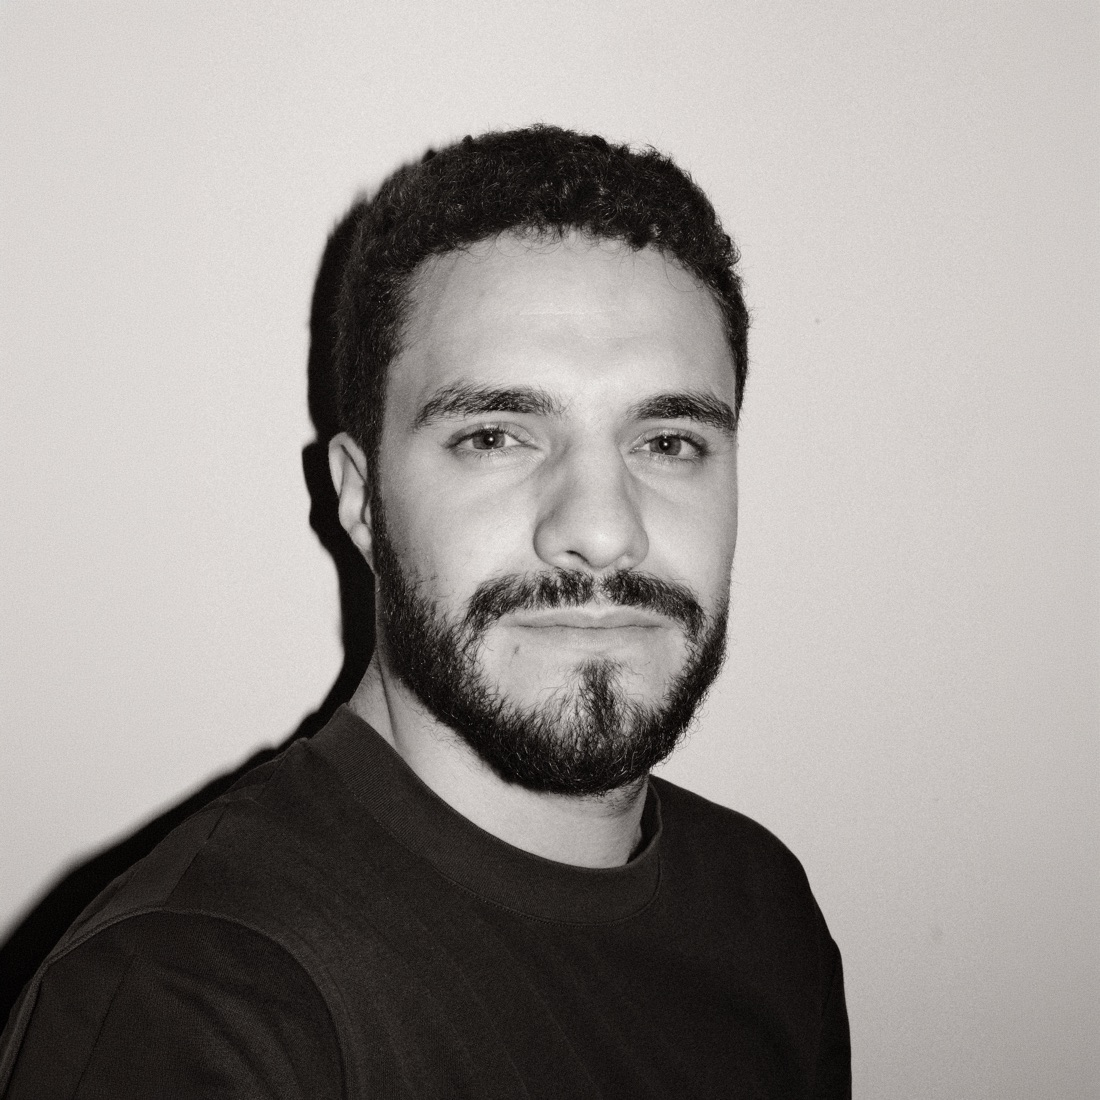
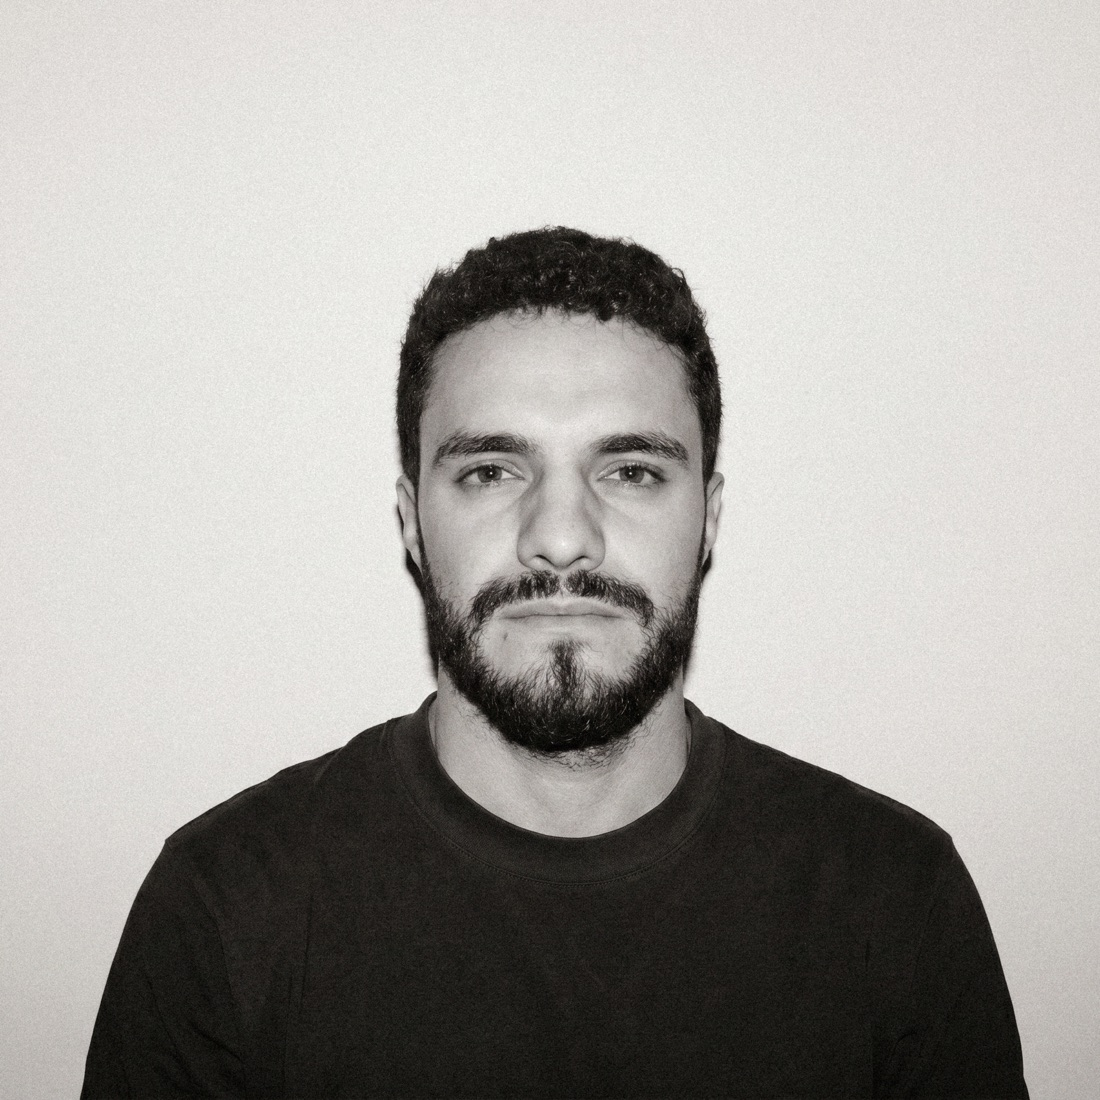
Kontextfarben, Menue-Kompass, Header-Funktionstausch, neues Marco-Foto
- Textfarbe nach Untergrund: Bild -> rot (Hero), schwarze Flaeche -> weiss
  (Work, Footer); Work/Footer/Header data-color=weiss.
- Menue: Highlight nur noch Helvetica (kein Weiss mehr, Farbe bleibt);
  Zeilen deutlich enger (line-height .9, kein vertikales Padding);
  Kompass links neben dem mittigen Eintrag, dreht mit Scroll-Richtung
  (runter=rechts rum, hoch=links rum); Eintraege eingerueckt (--menu-indent).
- Header-Funktionen getauscht: oben links 'Home' (zum Seitenanfang),
  oben rechts Kompass-Button oeffnet das Menue.
- Weisser 'Blitzer'-Rand um die drei Partner-Portraits.
- Neues Marco-Foto (Marco.png -> assets/img/team/marco.jpg).
- Cache-Version v=20260717.

diff --git a/css/style.css b/css/style.css
@@ -41,6 +41,7 @@
 
   --rand: clamp(1.375rem, 2.14vw, 2.5625rem); /* 22px … 41px Seitenrand */
   --header-h: clamp(3.75rem, 7vw, 5.75rem);
+  --menu-indent: clamp(3.5rem, 8vw, 7rem); /* Platz für den Menü-Kompass */
 
   --ease: cubic-bezier(0.16, 1, 0.3, 1);
 }
@@ -142,6 +143,9 @@ button {
 .site-header[data-color="dunkel"] {
   color: var(--dunkel-text);
 }
+.site-header[data-color="weiss"] {
+  color: var(--weiss);
+}
 .site-header > * {
   pointer-events: auto;
 }
@@ -238,23 +242,36 @@ button {
   flex: 0 0 auto;
   scroll-snap-align: center;
   display: block;
-  padding: clamp(0.25rem, 1vh, 0.75rem) 0;
+  /* eng gesetzt: Zeilen berühren sich fast */
+  padding: 0 0 0 var(--menu-indent);
   font-family: var(--serif); /* Secondary für die Ränder */
   font-size: clamp(3rem, 9.5vw, 11rem);
-  line-height: 1.05;
+  line-height: 0.9;
   letter-spacing: -0.03em;
   color: var(--schwarz);
   text-align: left;
   transform-origin: left center;
   will-change: transform, opacity;
-  transition: color 0.25s ease;
 }
 .menu-item.is-center {
-  font-family: var(--grotesk); /* Primary in der Mitte */
+  font-family: var(--grotesk); /* Primary nur in der Mitte, Farbe bleibt */
   font-weight: 500;
 }
-.menu-item:hover {
-  color: var(--weiss);
+
+/* Kompass links neben dem mittigen (ausgewählten) Eintrag */
+.menu-kompass {
+  position: fixed; /* Y wird per JS auf die Scroller-Mitte gesetzt */
+  left: var(--rand);
+  top: 50%;
+  width: clamp(2rem, 4.2vw, 3.75rem);
+  color: var(--schwarz);
+  pointer-events: none;
+  z-index: 2;
+  opacity: 0;
+  transition: opacity 0.4s ease;
+}
+.menu-overlay.is-open .menu-kompass {
+  opacity: 1;
 }
 .menu-meta {
   flex: 0 0 auto;
@@ -419,8 +436,8 @@ button {
    Work
    ========================================================================== */
 .work {
-  background: var(--dunkel);
-  color: var(--rot);
+  background: var(--schwarz);
+  color: var(--weiss);
   padding: clamp(4.5rem, 9vw, 8rem) var(--rand);
 }
 .work__head {
@@ -429,7 +446,7 @@ button {
   justify-content: space-between;
   gap: 1rem;
   margin-bottom: clamp(2rem, 4vw, 3.5rem);
-  border-bottom: 1px solid rgba(255, 44, 59, 0.35);
+  border-bottom: 1px solid rgba(255, 255, 255, 0.35);
   padding-bottom: clamp(1rem, 2vw, 1.75rem);
 }
 .work__title {
@@ -486,7 +503,7 @@ button {
   align-items: flex-end;
   justify-content: space-between;
   gap: 0.75rem;
-  color: var(--rot);
+  color: var(--weiss);
 }
 .work-card__name {
   font-size: clamp(1.25rem, 1.7vw, 1.9rem);
@@ -504,10 +521,10 @@ button {
    Footer
    ========================================================================== */
 .site-footer {
-  background: var(--dunkel);
-  color: var(--rot);
+  background: var(--schwarz);
+  color: var(--weiss);
   padding: clamp(3rem, 6vw, 5rem) var(--rand) clamp(2rem, 4vw, 3rem);
-  border-top: 1px solid rgba(255, 44, 59, 0.25);
+  border-top: 1px solid rgba(255, 255, 255, 0.25);
 }
 .site-footer__grid {
   display: flex;
@@ -518,7 +535,7 @@ button {
 }
 .site-footer__mark {
   width: min(60vw, 340px);
-  color: var(--rot);
+  color: var(--weiss);
 }
 .site-footer__links {
   display: flex;
@@ -640,7 +657,9 @@ button {
   position: relative;
   aspect-ratio: 4 / 5;
   overflow: hidden;
-  background: var(--weiss); /* neutrale Platzhalter-Fläche */
+  background: var(--weiss);
+  /* leichter weißer „Blitzer"-Rand um die Portraits */
+  border: clamp(2px, 0.3vw, 3px) solid var(--weiss);
   margin-bottom: clamp(1rem, 1.6vw, 1.6rem);
 }
 .team-card__photo img {

diff --git a/js/main.js b/js/main.js
@@ -6,8 +6,10 @@
   var root = doc.documentElement;
   var header = doc.querySelector(".site-header");
   var overlay = doc.getElementById("menu");
-  var toggle = doc.querySelector(".menu-toggle");
   var closeBtn = doc.querySelector(".menu-close");
+  // Menü wird auf der Landing-Page über den Kompass oben rechts geöffnet
+  var opener = doc.querySelector(".header-kompass");
+  var menuKompass = overlay ? overlay.querySelector(".menu-kompass") : null;
 
   var reduceMotion =
     window.matchMedia &&
@@ -26,6 +28,8 @@
   var scroller = overlay ? overlay.querySelector(".menu-scroller") : null;
   var menuItems = scroller ? scroller.querySelectorAll(".menu-item") : [];
   var menuRaf = null;
+  var kompassDeg = 0;
+  var lastScrollTop = 0;
 
   function menuUpdate() {
     menuRaf = null;
@@ -40,7 +44,7 @@
       var c = r.top + r.height / 2;
       var d = Math.abs(c - center);
       var norm = Math.min(d / (rect.height / 2), 1);
-      it.style.transform = "scale(" + (1 - 0.5 * norm).toFixed(3) + ")";
+      it.style.transform = "scale(" + (1 - 0.4 * norm).toFixed(3) + ")";
       it.style.opacity = (1 - 0.62 * norm).toFixed(3);
       if (d < bestD) {
         bestD = d;
@@ -50,6 +54,18 @@
     menuItems.forEach(function (it) {
       it.classList.toggle("is-center", it === best);
     });
+
+    // Kompass auf die Mitte setzen + entsprechend der Scroll-Richtung drehen
+    if (menuKompass) {
+      var st = scroller.scrollTop;
+      var delta = st - lastScrollTop;
+      lastScrollTop = st;
+      // runter → rechts rum (im Uhrzeigersinn), hoch → links rum
+      kompassDeg += delta * 0.6;
+      menuKompass.style.top = Math.round(center) + "px";
+      menuKompass.style.transform =
+        "translateY(-50%) rotate(" + kompassDeg.toFixed(1) + "deg)";
+    }
   }
   function menuSchedule() {
     if (menuRaf === null && window.requestAnimationFrame)
@@ -65,13 +81,14 @@
     if (!overlay) return;
     overlay.classList.add("is-open");
     overlay.setAttribute("aria-hidden", "false");
-    if (toggle && toggle.tagName === "BUTTON")
-      toggle.setAttribute("aria-expanded", "true");
+    if (opener && opener.tagName === "BUTTON")
+      opener.setAttribute("aria-expanded", "true");
     doc.body.style.overflow = "hidden";
     // Menü mittig ausrichten und Skalierung initialisieren
     if (scroller) {
       var mid = menuItems[Math.floor(menuItems.length / 2)];
       if (mid) mid.scrollIntoView({ block: "center" });
+      lastScrollTop = scroller.scrollTop;
       menuUpdate();
     }
   }
@@ -80,15 +97,15 @@
     if (!overlay) return;
     overlay.classList.remove("is-open");
     overlay.setAttribute("aria-hidden", "true");
-    if (toggle && toggle.tagName === "BUTTON")
-      toggle.setAttribute("aria-expanded", "false");
+    if (opener && opener.tagName === "BUTTON")
+      opener.setAttribute("aria-expanded", "false");
     doc.body.style.overflow = "";
   }
 
-  // Menü-Button öffnet nur, wenn er wirklich ein Button ist (Startseite);
-  // auf Unterseiten ist ".menu-toggle" ein Zurück-Link.
-  if (toggle && toggle.tagName === "BUTTON")
-    toggle.addEventListener("click", openMenu);
+  // Öffner ist der Kompass oben rechts (nur auf der Landing-Page ein Button;
+  // auf Unterseiten ein Link zur Startseite → dann kein Menü).
+  if (opener && opener.tagName === "BUTTON")
+    opener.addEventListener("click", openMenu);
   if (closeBtn) closeBtn.addEventListener("click", closeMenu);
 
   if (overlay) {

diff --git a/index.html b/index.html
@@ -9,8 +9,8 @@
       content="Neue Welt Agentur ist alles was noch nicht existiert und erschaffen werden darf. Ein Kollektiv, das die Verantwortung hat, die Welt zu formen."
     />
     <meta name="theme-color" content="#ff2c3b" />
-    <link rel="icon" href="assets/svg/favicon.svg?v=20260716" type="image/svg+xml" />
-    <link rel="apple-touch-icon" href="assets/svg/favicon.svg?v=20260716" />
+    <link rel="icon" href="assets/svg/favicon.svg?v=20260717" type="image/svg+xml" />
+    <link rel="apple-touch-icon" href="assets/svg/favicon.svg?v=20260717" />
 
     <!-- Open Graph / Social -->
     <meta property="og:type" content="website" />
@@ -31,7 +31,7 @@
       href="assets/fonts/eb-garamond-latin.woff2"
       crossorigin
     />
-    <link rel="stylesheet" href="css/style.css?v=20260716" />
+    <link rel="stylesheet" href="css/style.css?v=20260717" />
   </head>
   <body>
     <!-- Custom Cursor -->
@@ -39,17 +39,16 @@
 
     <!-- ===================== Header ===================== -->
     <header class="site-header" data-color="rot">
+      <a class="menu-toggle header-home" href="#top">Home</a>
       <button
-        class="menu-toggle"
+        class="header-kompass"
         type="button"
         aria-expanded="false"
         aria-controls="menu"
+        aria-label="Menü öffnen"
       >
-        Menü
-      </button>
-      <a class="header-kompass" href="#top" aria-label="Nach oben">
         <span class="mask mask--kompass" role="img" aria-hidden="true"></span>
-      </a>
+      </button>
     </header>
 
     <!-- ===================== Menü-Overlay ===================== -->
@@ -68,6 +67,7 @@
           </svg>
         </button>
       </div>
+      <span class="menu-kompass mask mask--kompass" aria-hidden="true"></span>
       <div class="menu-scroller" tabindex="-1">
         <a class="menu-item" href="#work">Work</a>
         <a class="menu-item" href="#manifesto">Manifesto</a>
@@ -129,7 +129,7 @@
       </section>
 
       <!-- ===================== Work ===================== -->
-      <section class="work" id="work" data-color="rot">
+      <section class="work" id="work" data-color="weiss">
         <div class="work__head">
           <h2 class="work__title">Work</h2>
           <span class="work__count">Selected — 2026</span>
@@ -201,7 +201,7 @@
     </main>
 
     <!-- ===================== Footer ===================== -->
-    <footer class="site-footer" data-color="rot">
+    <footer class="site-footer" data-color="weiss">
       <div class="site-footer__grid">
         <span
           class="site-footer__mark mask mask--wortmarke"
@@ -219,6 +219,6 @@
       <p class="site-footer__copy">© <span id="year">2026</span> Neue Welt Agentur</p>
     </footer>
 
-    <script src="js/main.js?v=20260716"></script>
+    <script src="js/main.js?v=20260717"></script>
   </body>
 </html>

diff --git a/datenschutz.html b/datenschutz.html
@@ -6,8 +6,8 @@
     <title>Datenschutz — Neue Welt Agentur</title>
     <meta name="robots" content="noindex" />
     <meta name="theme-color" content="#ff2c3b" />
-    <link rel="icon" href="assets/svg/favicon.svg?v=20260716" type="image/svg+xml" />
-    <link rel="stylesheet" href="css/style.css?v=20260716" />
+    <link rel="icon" href="assets/svg/favicon.svg?v=20260717" type="image/svg+xml" />
+    <link rel="stylesheet" href="css/style.css?v=20260717" />
   </head>
   <body>
     <div class="cursor" aria-hidden="true"></div>
@@ -57,6 +57,6 @@
       </div>
     </main>
 
-    <script src="js/main.js?v=20260716"></script>
+    <script src="js/main.js?v=20260717"></script>
   </body>
 </html>

diff --git a/impressum.html b/impressum.html
@@ -6,8 +6,8 @@
     <title>Impressum — Neue Welt Agentur</title>
     <meta name="robots" content="noindex" />
     <meta name="theme-color" content="#ff2c3b" />
-    <link rel="icon" href="assets/svg/favicon.svg?v=20260716" type="image/svg+xml" />
-    <link rel="stylesheet" href="css/style.css?v=20260716" />
+    <link rel="icon" href="assets/svg/favicon.svg?v=20260717" type="image/svg+xml" />
+    <link rel="stylesheet" href="css/style.css?v=20260717" />
   </head>
   <body>
     <div class="cursor" aria-hidden="true"></div>
@@ -52,6 +52,6 @@
       </div>
     </main>
 
-    <script src="js/main.js?v=20260716"></script>
+    <script src="js/main.js?v=20260717"></script>
   </body>
 </html>

diff --git a/team.html b/team.html
@@ -8,7 +8,7 @@
     <!-- Team ist jetzt Teil des Onepagers -->
     <meta http-equiv="refresh" content="0; url=index.html#team" />
     <link rel="canonical" href="index.html#team" />
-    <link rel="icon" href="assets/svg/favicon.svg?v=20260716" type="image/svg+xml" />
+    <link rel="icon" href="assets/svg/favicon.svg?v=20260717" type="image/svg+xml" />
   </head>
   <body>
     <p><a href="index.html#team">Weiter zum Team →</a></p>